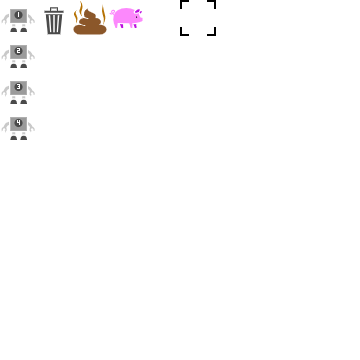
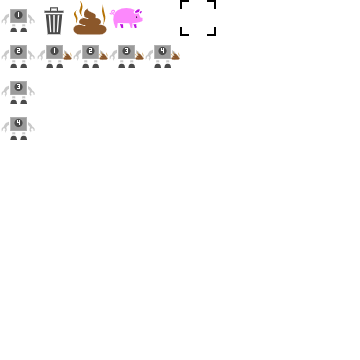
turd robots exist!

Changed region(s): [[0.0917, 0.1222, 0.5194, 0.2139]]

diff --git a/alakajam13_game/Game.ActorTypes.cpp b/alakajam13_game/Game.ActorTypes.cpp
@@ -8,6 +8,10 @@ namespace game
 		{ActorType::ROBOT_2, { "Robot2", true }},
 		{ActorType::ROBOT_3, { "Robot3", true }},
 		{ActorType::ROBOT_4, { "Robot4", true }},
+		{ActorType::TURD_ROBOT_1, { "TurdRobot1", true }},
+		{ActorType::TURD_ROBOT_2, { "TurdRobot2", true }},
+		{ActorType::TURD_ROBOT_3, { "TurdRobot3", true }},
+		{ActorType::TURD_ROBOT_4, { "TurdRobot4", true }},
 		{ActorType::FENCE, { "Fence", false }},
 		{ActorType::PIG, { "Pig", false }},
 		{ActorType::TRASH, { "Trash", false }},

diff --git a/alakajam13_game/Game.Actors.cpp b/alakajam13_game/Game.Actors.cpp
@@ -36,9 +36,9 @@ namespace game
 	static void AddRobots()
 	{
 		Actors::AddActor({ ActorType::ROBOT_1, {0,-1} });
-		//Actors::AddActor({ ActorType::ROBOT_2, {1,0} });
-		//Actors::AddActor({ ActorType::ROBOT_3, {0,1} });
-		//Actors::AddActor({ ActorType::ROBOT_4, {-1,0} });
+		Actors::AddActor({ ActorType::ROBOT_2, {1,0} });
+		Actors::AddActor({ ActorType::ROBOT_3, {0,1} });
+		Actors::AddActor({ ActorType::ROBOT_4, {-1,0} });
 	}
 
 	static void AddFence()

diff --git a/alakajam13_game/Game.ActorType.h b/alakajam13_game/Game.ActorType.h
@@ -7,6 +7,10 @@ namespace game
 		ROBOT_2,
 		ROBOT_3,
 		ROBOT_4,
+		TURD_ROBOT_1,
+		TURD_ROBOT_2,
+		TURD_ROBOT_3,
+		TURD_ROBOT_4,
 		FENCE,
 		PIG,
 		TRASH,
